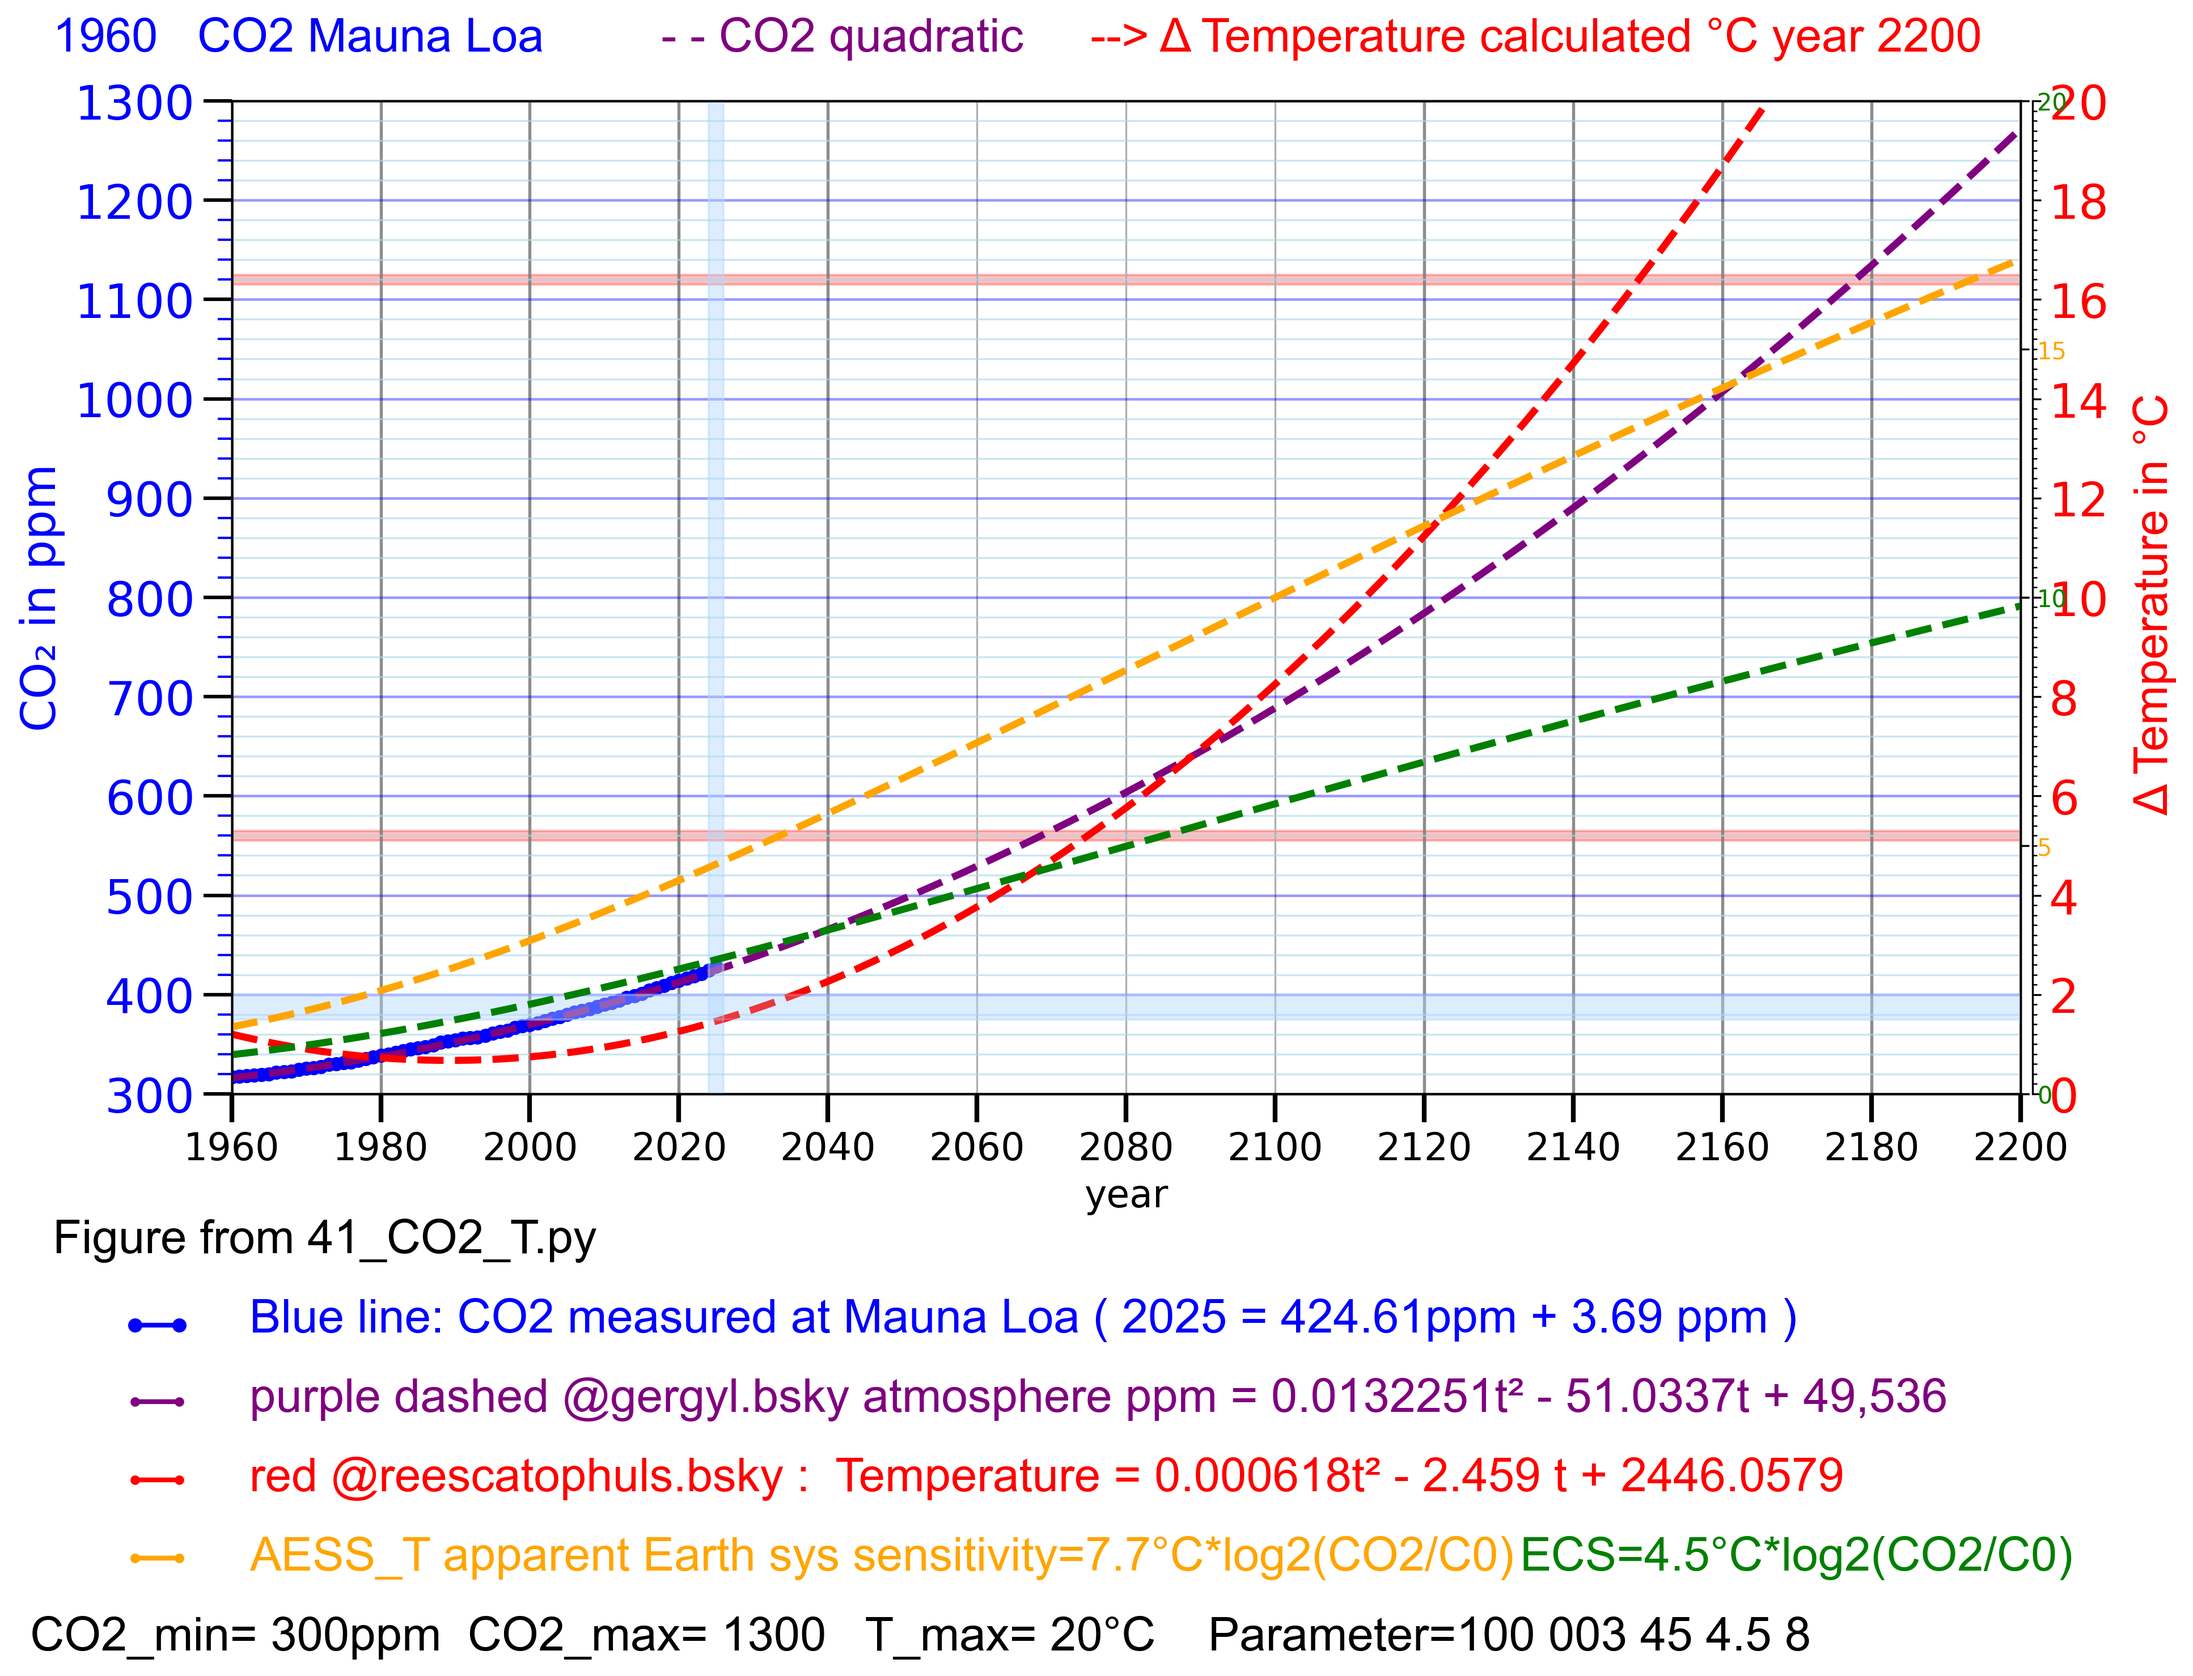
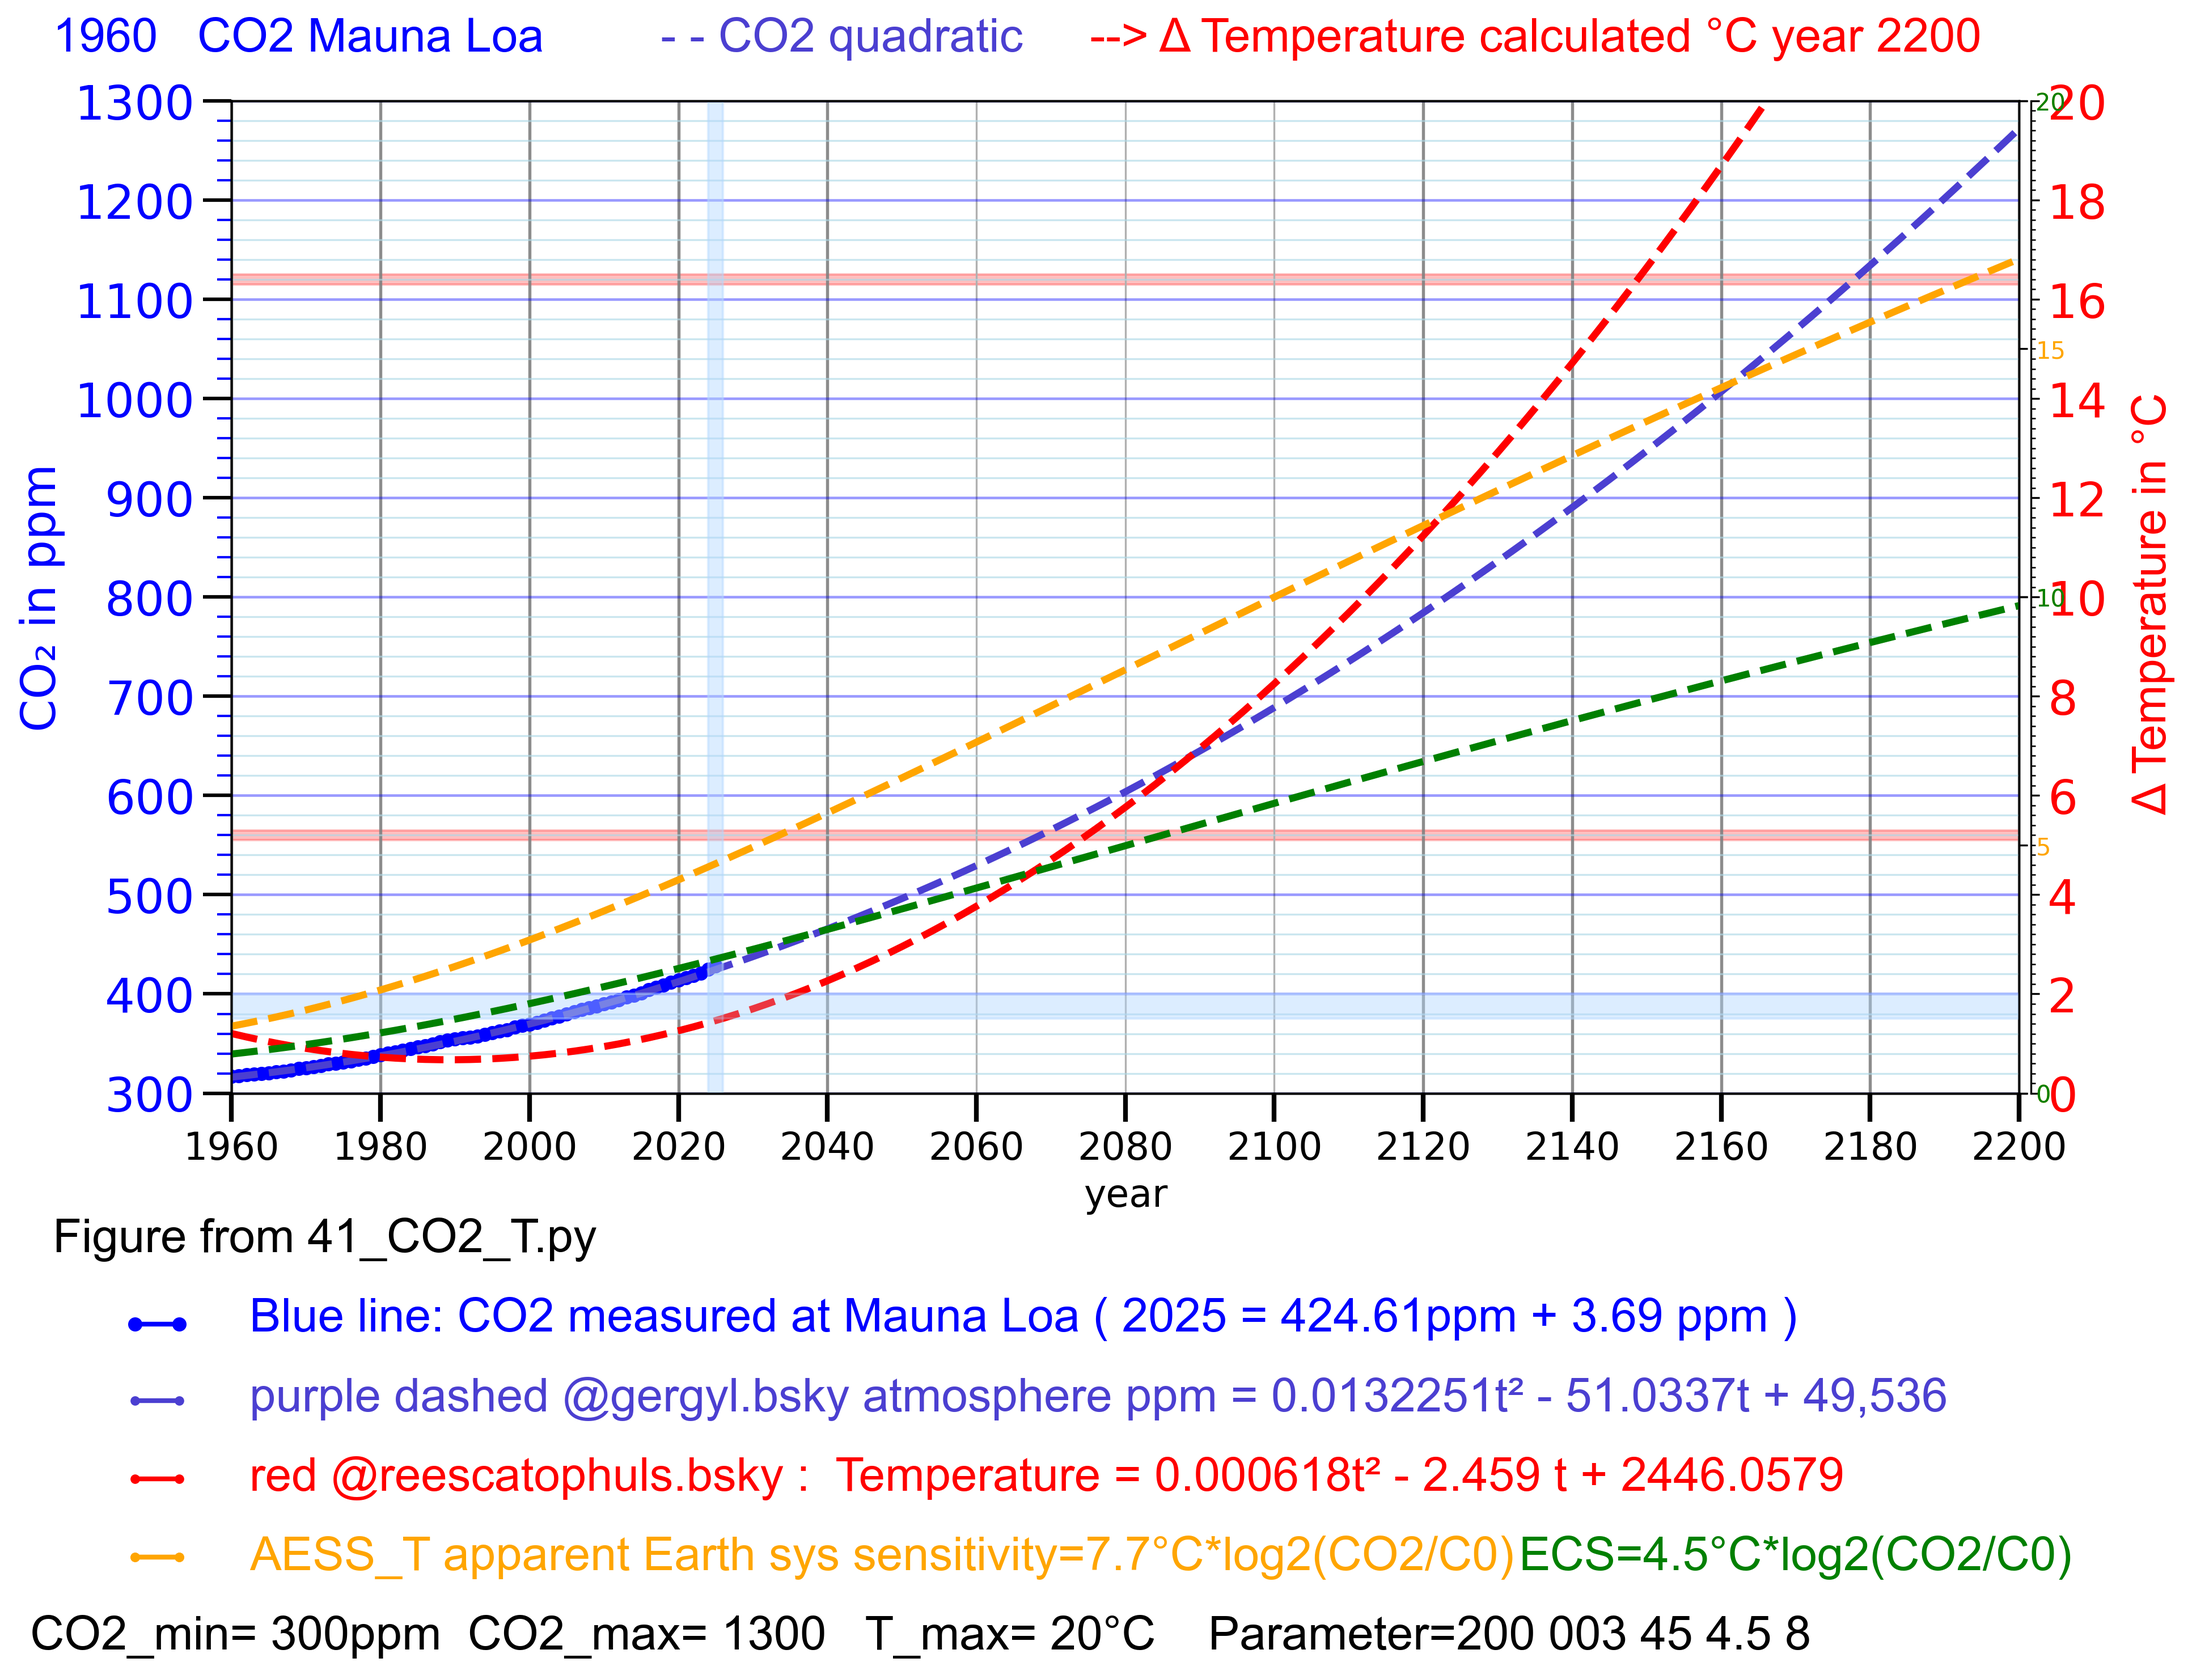
41k5_CO2_T.py plot 31, 32 34

diff --git a/41_CO2_T.py b/41_CO2_T.py
@@ -1,4 +1,4 @@
-# 41k4_CO2_T.py 2200
+# 41k5_CO2_T.py plot 31, 32 34
 # Thomas Boettcher
 # part 0 variables
 # part 1 plot CO2 Mauna Loa
@@ -26,8 +26,8 @@ import sys
 # 0.2 Parameter decide which curves to plot
 plot1_Mauna_Loa_ = 2 # 2 print in line 2 # 0 no plot CO2 # 1 Mauna Loa 
 c1 = "blue" # plot1 color
-plot2_population_on = 0 # 5 row 5 # 0=no print , 1 = population in green
-plot3_delta_CO2_red_bars = 0 # 3 4 0 7 8 keine delta_CO2 , 1 = delta_CO2 in rot , 7,8 mit Beschriftung   
+plot31_population_on = 0 # 5 row 5 # 0=no print , 1 = population in green
+plot32_delta_CO2_red_bars = 0 # 3 4 0 7 8 keine delta_CO2 , 1 = delta_CO2 in rot , 7,8 mit Beschriftung   
 plot4_CO2_orange2025 = 0 # 3, 4, 0 orange Glen , 1 = 0.013t² - 51t + 49,536 in rot 3 works plot4_CO2_orange2025
 plot5_Glen_delta_on = 0 #  4, 0 print row 4 # green Glen diff print in line 4
 plot6_Glen_CO2_on = 3 # 3 print in line 3, 0 keine Kurve Glen , 1 = 0.013t² - 51t + 49,536 in rot  
@@ -102,11 +102,11 @@ yr1 = int(yr1+0.49) # cast to integer result = 2 (int)
 
 # 0.8 Parameter strig
 header_parameter = f"{plot1_Mauna_Loa_}" # 1960 number inside string
-header_parameter = header_parameter + f"{plot2_population_on}" # plot2_population_on number inside string
-header_parameter = header_parameter + f"{plot3_delta_CO2_red_bars} " # plot3_delta_CO2_red_bars number inside string
+header_parameter = header_parameter + f"{plot31_population_on}" # plot31_population_on number inside string
+header_parameter = header_parameter + f"{plot32_delta_CO2_red_bars} " # plot32_delta_CO2_red_bars number inside string
 header_parameter = header_parameter + f"{plot4_CO2_orange2025}" # plot4_CO2_orange2025 number inside string
 header_parameter = header_parameter + f"{plot5_Glen_delta_on}" # plot5_Glen_delta_on number inside string
-header_parameter = header_parameter + f"{plot6_Glen_CO2_on} " # plot2_population_on number inside string
+header_parameter = header_parameter + f"{plot6_Glen_CO2_on} " # plot31_population_on number inside string
 header_parameter = header_parameter + f"{plot71_temperature}" 
 header_parameter = header_parameter + f"{plot72_AESS_T}" 
 header_parameter = header_parameter + f" {plot73_ECS_T} " 
@@ -208,11 +208,11 @@ else:
   ax1.set_ylim(y_min, y_max)
 
 # ------Kurve 2-----------------------
-# 2.1.1 population up to 2023 (UN WPP 2024 via OWID)
+# 3.1.1 population up to 2023 (UN WPP 2024 via OWID)
 # url = "https://ourworldindata.org/grapher/population.csv"
 # population4.csv
 # -----------------------------
-# 2.1.2 population 2023 to 2026 
+# 3.1.2 population 2023 to 2026 
 # https://www.worldometers.info/world-population/world-population-by-year/
 # 2026	8,300,678,395	0.84%	69,065,325	56
 # 2025	8,231,613,070	0.85%	69,640,498	55
@@ -220,7 +220,7 @@ else:
 # 2023	8,091,734,930	0.88%	70,327,738	54
 # population1.csv
 
-if plot2_population_on > 0:
+if plot31_population_on > 0:
    pop_df = pd.read_csv("population1.csv")
    pop_world = (
          pop_df[pop_df["Entity"] == "World"][["Year", "Population"]]
@@ -229,12 +229,12 @@ if plot2_population_on > 0:
          .reset_index(drop=True)
       )
    pop_world_subset = pop_world[start:end]
-   # 2.3 in Milliarden
+   # 3.1.4 in Milliarden
    pop_world["Population_Mrd"] = pop_world["Population"] / 1e9
-   #end plot2_population_on=1 - print population
+   #end plot31_population_on=1 - print population
 
-# 2.3 plot2_population_on=1
-if plot2_population_on > 0:
+# 3.1.5 plot31_population_on=1
+if plot31_population_on > 0:
    ax2 = ax1.twinx()
    ax2.spines.right.set_position(("outward", 50))
    ax2.set_ylabel("Earth Population in Billion", color="green")
@@ -246,32 +246,31 @@ if plot2_population_on > 0:
    ax2.set_ylim(4, 9)
    #end print_y2=1 - print population
 
-if plot2_population_on == 2: ax2.set_ylim(6.5, 8.5) # andere Skala
-#end plot2_population_on=1 - print population
+if plot31_population_on == 2: ax2.set_ylim(6.5, 8.5) # andere Skala
+#end plot31_population_on=1 - print population
 
-# 2.4 plot2_population_on=1
 
-# -----Kurve 3------------------------
-# 3.1 ΔCO₂ berechnen (per pandas) Balken
+# -----Kurve 3.2 ------------------------
+# 3.2 ΔCO₂ berechnen (per pandas) Balken
 # df["CO2"].diff() Calculates the difference between consecutive CO₂ values
 # -----------------------------
 
-if plot3_delta_CO2_red_bars > 0:
+if plot32_delta_CO2_red_bars > 0:
    df["Delta_CO2"] = df["CO2"].diff().fillna(0)  # This line creates a new column in your DataFrame called Delta_CO2.
-   ax3 = ax1.twinx()  # twinx(): Shares the same x-axis Adds a new y-axis on the right
-   ax3.spines.right.set_position(("outward", 20))
+   ax32 = ax1.twinx()  # twinx(): Shares the same x-axis Adds a new y-axis on the right
+   ax32.spines.right.set_position(("outward", 20))
 
-if plot3_delta_CO2_red_bars > 0:
-   bars = ax3.bar(df["Jahr"], df["Delta_CO2"], width=0.7, alpha=0.5, color="red")
-   ax3.bar(df["Jahr"], df["Delta_CO2"], width=0.7, alpha=0.5, color="red")
-   ax3.set_ylabel("red bars Mauna Loa CO2 increase in ppm", color="red", fontname="Arial",fontsize=16) # fontweight="bold"
-   ax3.tick_params(axis="y", labelcolor="red", labelsize=16)
-   ax3.set_ylim(-yr0, yr1) # scale y axis3 right red
-   #ax3.set_ylim(-2, 14)
+if plot32_delta_CO2_red_bars > 0:
+   bars = ax32.bar(df["Jahr"], df["Delta_CO2"], width=0.7, alpha=0.5, color="red")
+   ax32.bar(df["Jahr"], df["Delta_CO2"], width=0.7, alpha=0.5, color="red")
+   ax32.set_ylabel("red bars Mauna Loa CO2 increase in ppm", color="red", fontname="Arial",fontsize=16) # fontweight="bold"
+   ax32.tick_params(axis="y", labelcolor="red", labelsize=16)
+   ax32.set_ylim(-yr0, yr1) # scale y axis3 right red
+   #ax32.set_ylim(-2, 14)
 
-# 3.5 Add numbers on top of delta CO2 bars
-if plot3_delta_CO2_red_bars > 6:
-   ax3.bar_label(bars, fontsize=8, fontname="Arial",padding=1, color="black")
+# 3.2. 5 Add numbers on top of delta CO2 bars
+if plot32_delta_CO2_red_bars > 6:
+   ax32.bar_label(bars, fontsize=8, fontname="Arial",padding=1, color="black")
 
 # 4 part 4
 # 4.1 Kurve4 -- 2. Quadratic model function
@@ -576,8 +575,8 @@ plt.text(tr2x, tr2y, blue_text, color="blue", fontname="Arial", fontsize=trs,
 transform=plt.gca().transAxes)
 
 # 9.3 print line 3 below the plot explainations
-# 9.3.2 print line 3 plot2_population_on marker="s"
-if plot2_population_on == 3: # 8.5.1 legende world data plot1_Mauna_Loa_
+# 9.3.2 print line 3 plot31_population_on marker="s"
+if plot31_population_on == 3: # 8.5.1 legende world data plot1_Mauna_Loa_
    line1 = Line2D([lr2x1, lr2x2], [lr3y, lr3y], # x coords in figure space (0–1)
    transform=fig.transFigure,
    marker="s", markersize=5, color="green", linewidth=2)
@@ -589,7 +588,7 @@ if plot2_population_on == 3: # 8.5.1 legende world data plot1_Mauna_Loa_
    plt.text(tr2x, tr3y, blue_text, color="green", fontname="Arial", fontsize=trs,
    transform=plt.gca().transAxes)
 # 9.3.3 print line 3 green Glen data below the figure marker="_", markersize=5, color="green", linewidth=8)
-elif plot3_delta_CO2_red_bars == 3 or plot3_delta_CO2_red_bars == 7:
+elif plot32_delta_CO2_red_bars == 3 or plot32_delta_CO2_red_bars == 7:
    line4 = Line2D([lr2x1, lr2x2], [lr3y, lr3y], # y from 0 to 1
    transform=fig.transFigure,
    marker="_", markersize=5, color="red", linewidth=8)
@@ -636,7 +635,7 @@ if plot6_Glen_CO2_on == 3: # print in line 3
    # 9.2.4 write blue text
    red_text="purple dashed @gergyl.bsky atmosphere ppm = 0.0132251t² - 51.0337t + 49,536"
    # 9.2.5 plot the blue text
-   c6 = "#4B3FD1"
+   # c6 = "#4B3FD1"
    plt.text(tr2x, tr3y, red_text, color=c6, fontname="Arial", fontsize=trs,
    transform=plt.gca().transAxes)
    # 9.3 end print line 3 below the plot explainations
@@ -644,8 +643,8 @@ if plot6_Glen_CO2_on == 3: # print in line 3
 
 # 9.4 print line 4 below the plot explainations
 # 9.4 print line 4 below the plot explainations
-# 9.4.2 print line 4 plot2_population_on marker="s"
-if plot2_population_on == 4:
+# 9.4.2 print line 4 plot31_population_on marker="s"
+if plot31_population_on == 4:
    line1 = Line2D([lr2x1, lr2x2], [lr4y, lr4y],
    transform=fig.transFigure,
    marker="s", markersize=5, color="green", linewidth=2)
@@ -654,7 +653,7 @@ if plot2_population_on == 4:
    plt.text(tr2x, tr4y, blue_text, color="green", fontname="Arial", fontsize=trs,
    transform=plt.gca().transAxes)
    # 9.4.3 print line 4 green Glen data below the figure marker="_", markersize=5, color="green", linewidth=8)
-if plot3_delta_CO2_red_bars == 4 or plot3_delta_CO2_red_bars == 8:
+if plot32_delta_CO2_red_bars == 4 or plot32_delta_CO2_red_bars == 8:
    line4 = Line2D([lr2x1, lr2x2], [lr4y, lr4y], # y from 0 to 1
    transform=fig.transFigure,
    marker="_", markersize=5, color="red", linewidth=8)
@@ -714,8 +713,8 @@ elif plot71_temperature == 4:
    transform=plt.gca().transAxes)
 
 
-# 9.5.2 print line 5 plot2_population_on marker="s"
-if plot2_population_on == 5: # 8.5.1 legende world data plot1_Mauna_Loa_
+# 9.5.2 print line 5 plot31_population_on marker="s"
+if plot31_population_on == 5: # 8.5.1 legende world data plot1_Mauna_Loa_
    line1 = Line2D([lr2x1, lr2x2], [lr5y, lr5y], # x coords in figure space (0–1)
    transform=fig.transFigure,
    marker="s", markersize=5, color="green", linewidth=2)
@@ -764,7 +763,7 @@ if plot73_ECS_T > 0:
    transform=plt.gca().transAxes)
 
 
-# 9.5 print line 5 plot2_population_on
+# 9.5 print line 5 plot31_population_on
 # 9.6 print line 6
 text6 = f" CO2_min= {y_min}ppm " # y_max number inside string
 text6 = text6 + f" CO2_max= {y_max} " # y_max number inside string
@@ -838,14 +837,14 @@ if plot1_Mauna_Loa_ > 6: # 8.5.1 legende world data plot1_Mauna_Loa_
    plt.text(0.02, 0.95, K1_text, color="blue", fontname="Arial", fontsize=16,
    transform=plt.gca().transAxes)
    ax1.plot([x_anf+1, x_anf +2], [y_max -5, y_max -5], marker="o", markersize=5, color="blue", linewidth=2, label="short line")
-# 8.5 plot2_population_on = 1 # 0 keine Bevölkerung , 1 = Bevölkerung in grün
+# 8.5 plot31_population_on = 1 # 0 keine Bevölkerung , 1 = Bevölkerung in grün
 if plot1_Mauna_Loa_ > 8:
-   if plot2_population_on > 0:
+   if plot31_population_on > 0:
       plt.text(0.02, 0.90,"green: Human Population in billion K2", color="green", fontname="Arial", fontsize=14,
       transform=plt.gca().transAxes)
 # 8.6 legende
 if plot1_Mauna_Loa_ > 8:
-   if plot3_delta_CO2_red_bars > 0:
+   if plot32_delta_CO2_red_bars > 0:
       plt.text(0.02, 0.86," red bars: Mauna Loa yearly increase. //see right larger ppm scaling", color="red", fontname="Arial", fontsize=14,
       transform=plt.gca().transAxes)
       ax1.plot([x_anf+1, x_anf +2], [y_max -21, y_max -21], marker="_", markersize=5, color="red", linewidth=8)
